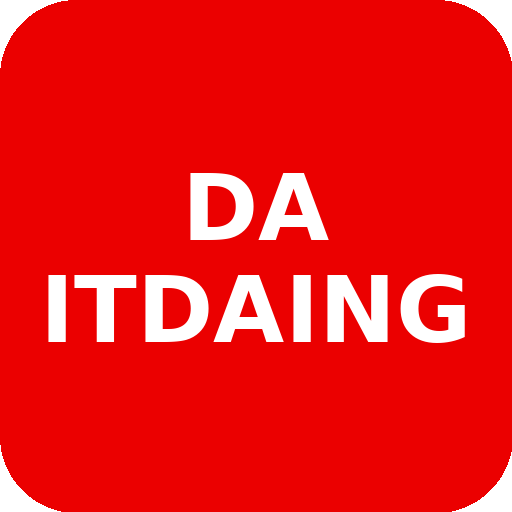
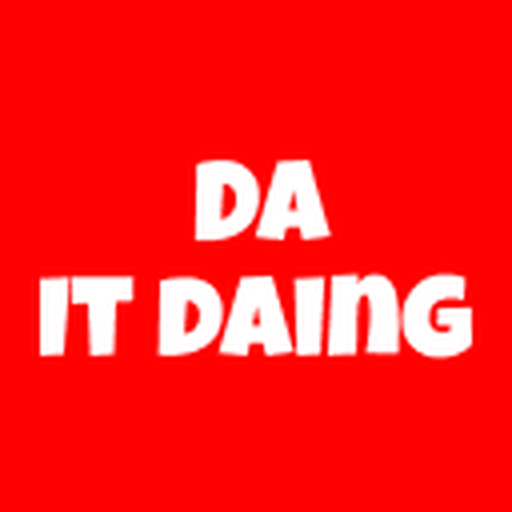
🎨 chore: PWA 아이콘 및 placeholder 이미지 교체
- favicon, android-chrome, apple-touch-icon 교체
- placeholder-popup.svg → placeholder-popup.png 변경
- EventCard의 SVG 참조를 PNG로 변경

diff --git a/itdaing-app/src/components/popup/EventCard.jsx b/itdaing-app/src/components/popup/EventCard.jsx
@@ -29,7 +29,7 @@ const EventCard = ({ popup, variant = 'default', onCardClick }) => {
   const addFavorite = useFavoriteStore((state) => state.addFavorite);
   const removeFavorite = useFavoriteStore((state) => state.removeFavorite);
   
-  const thumbnailUrl = getImageUrl(popup.thumbnail || popup.thumbnailImageUrl, '/placeholder-popup.svg');
+  const thumbnailUrl = getImageUrl(popup.thumbnail || popup.thumbnailImageUrl, '/placeholder-popup.png');
   const start = popup.startDate ? new Date(popup.startDate) : null;
   const end = popup.endDate ? new Date(popup.endDate) : null;
   const dateLabel = start && end
@@ -154,8 +154,8 @@ const EventCard = ({ popup, variant = 'default', onCardClick }) => {
             className="w-full h-full object-cover transition-transform duration-300 group-hover:scale-105"
             loading="lazy"
             onError={(e) => {
-              if (e.currentTarget.src.endsWith('/placeholder-popup.svg')) return; // Loop prevention
-              e.currentTarget.src = '/placeholder-popup.svg';
+              if (e.currentTarget.src.endsWith('/placeholder-popup.png')) return; // Loop prevention
+              e.currentTarget.src = '/placeholder-popup.png';
               e.currentTarget.onerror = null; // Final safeguard
             }}
           />
